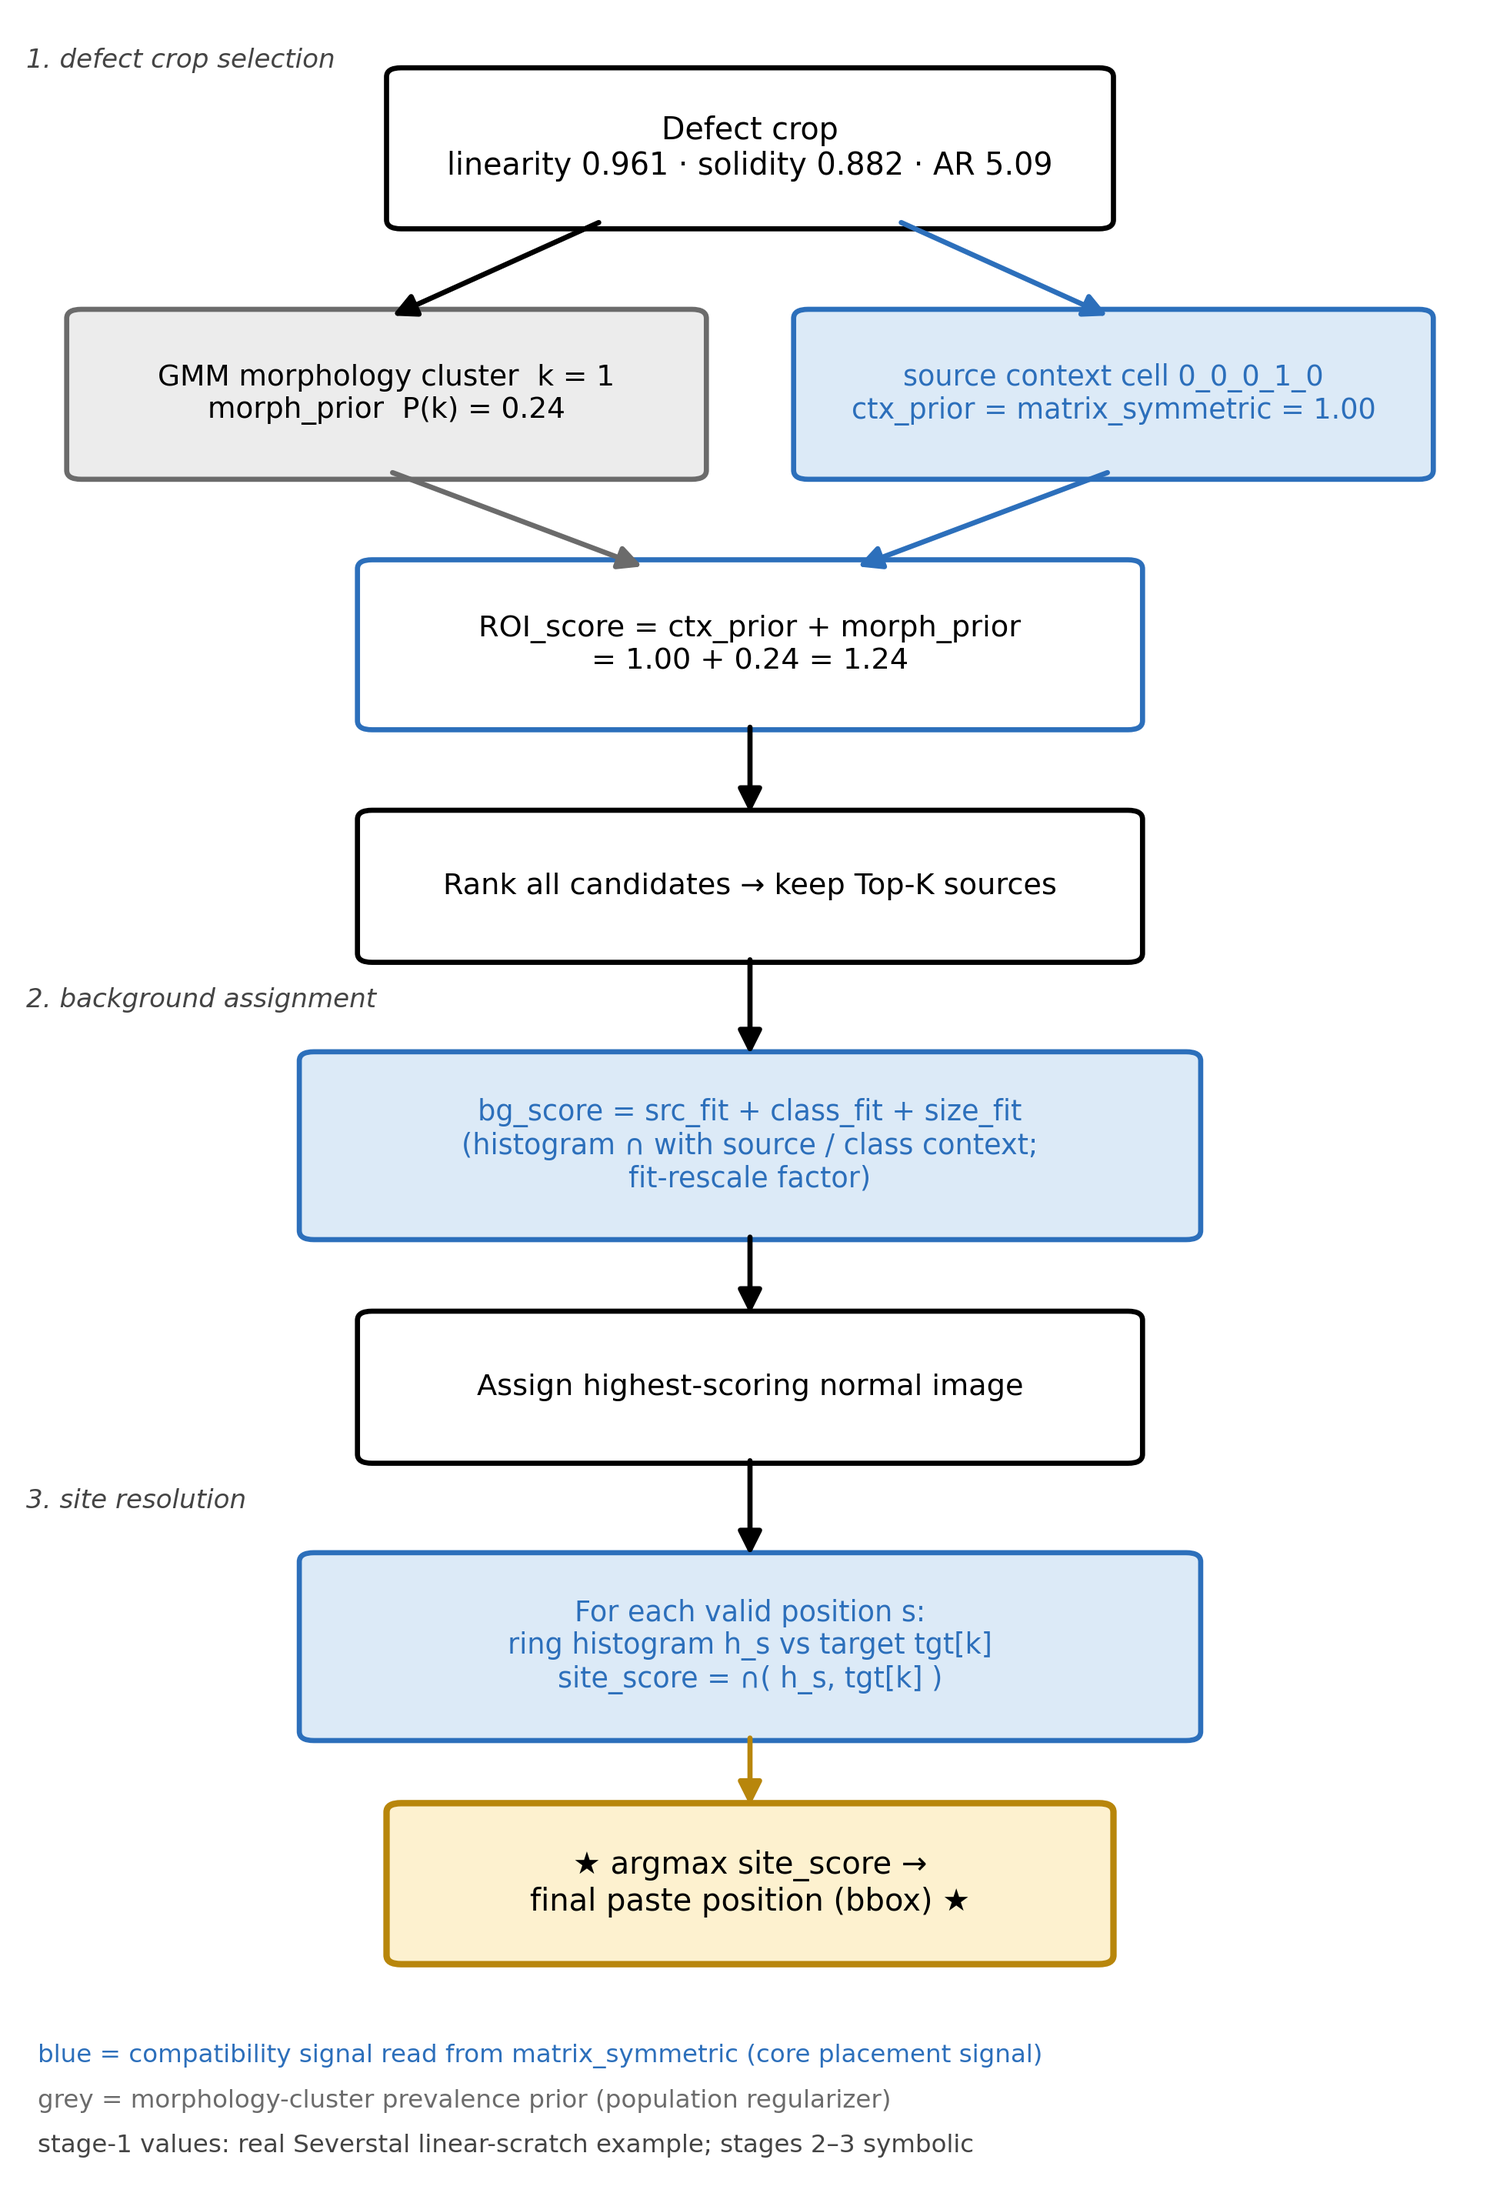
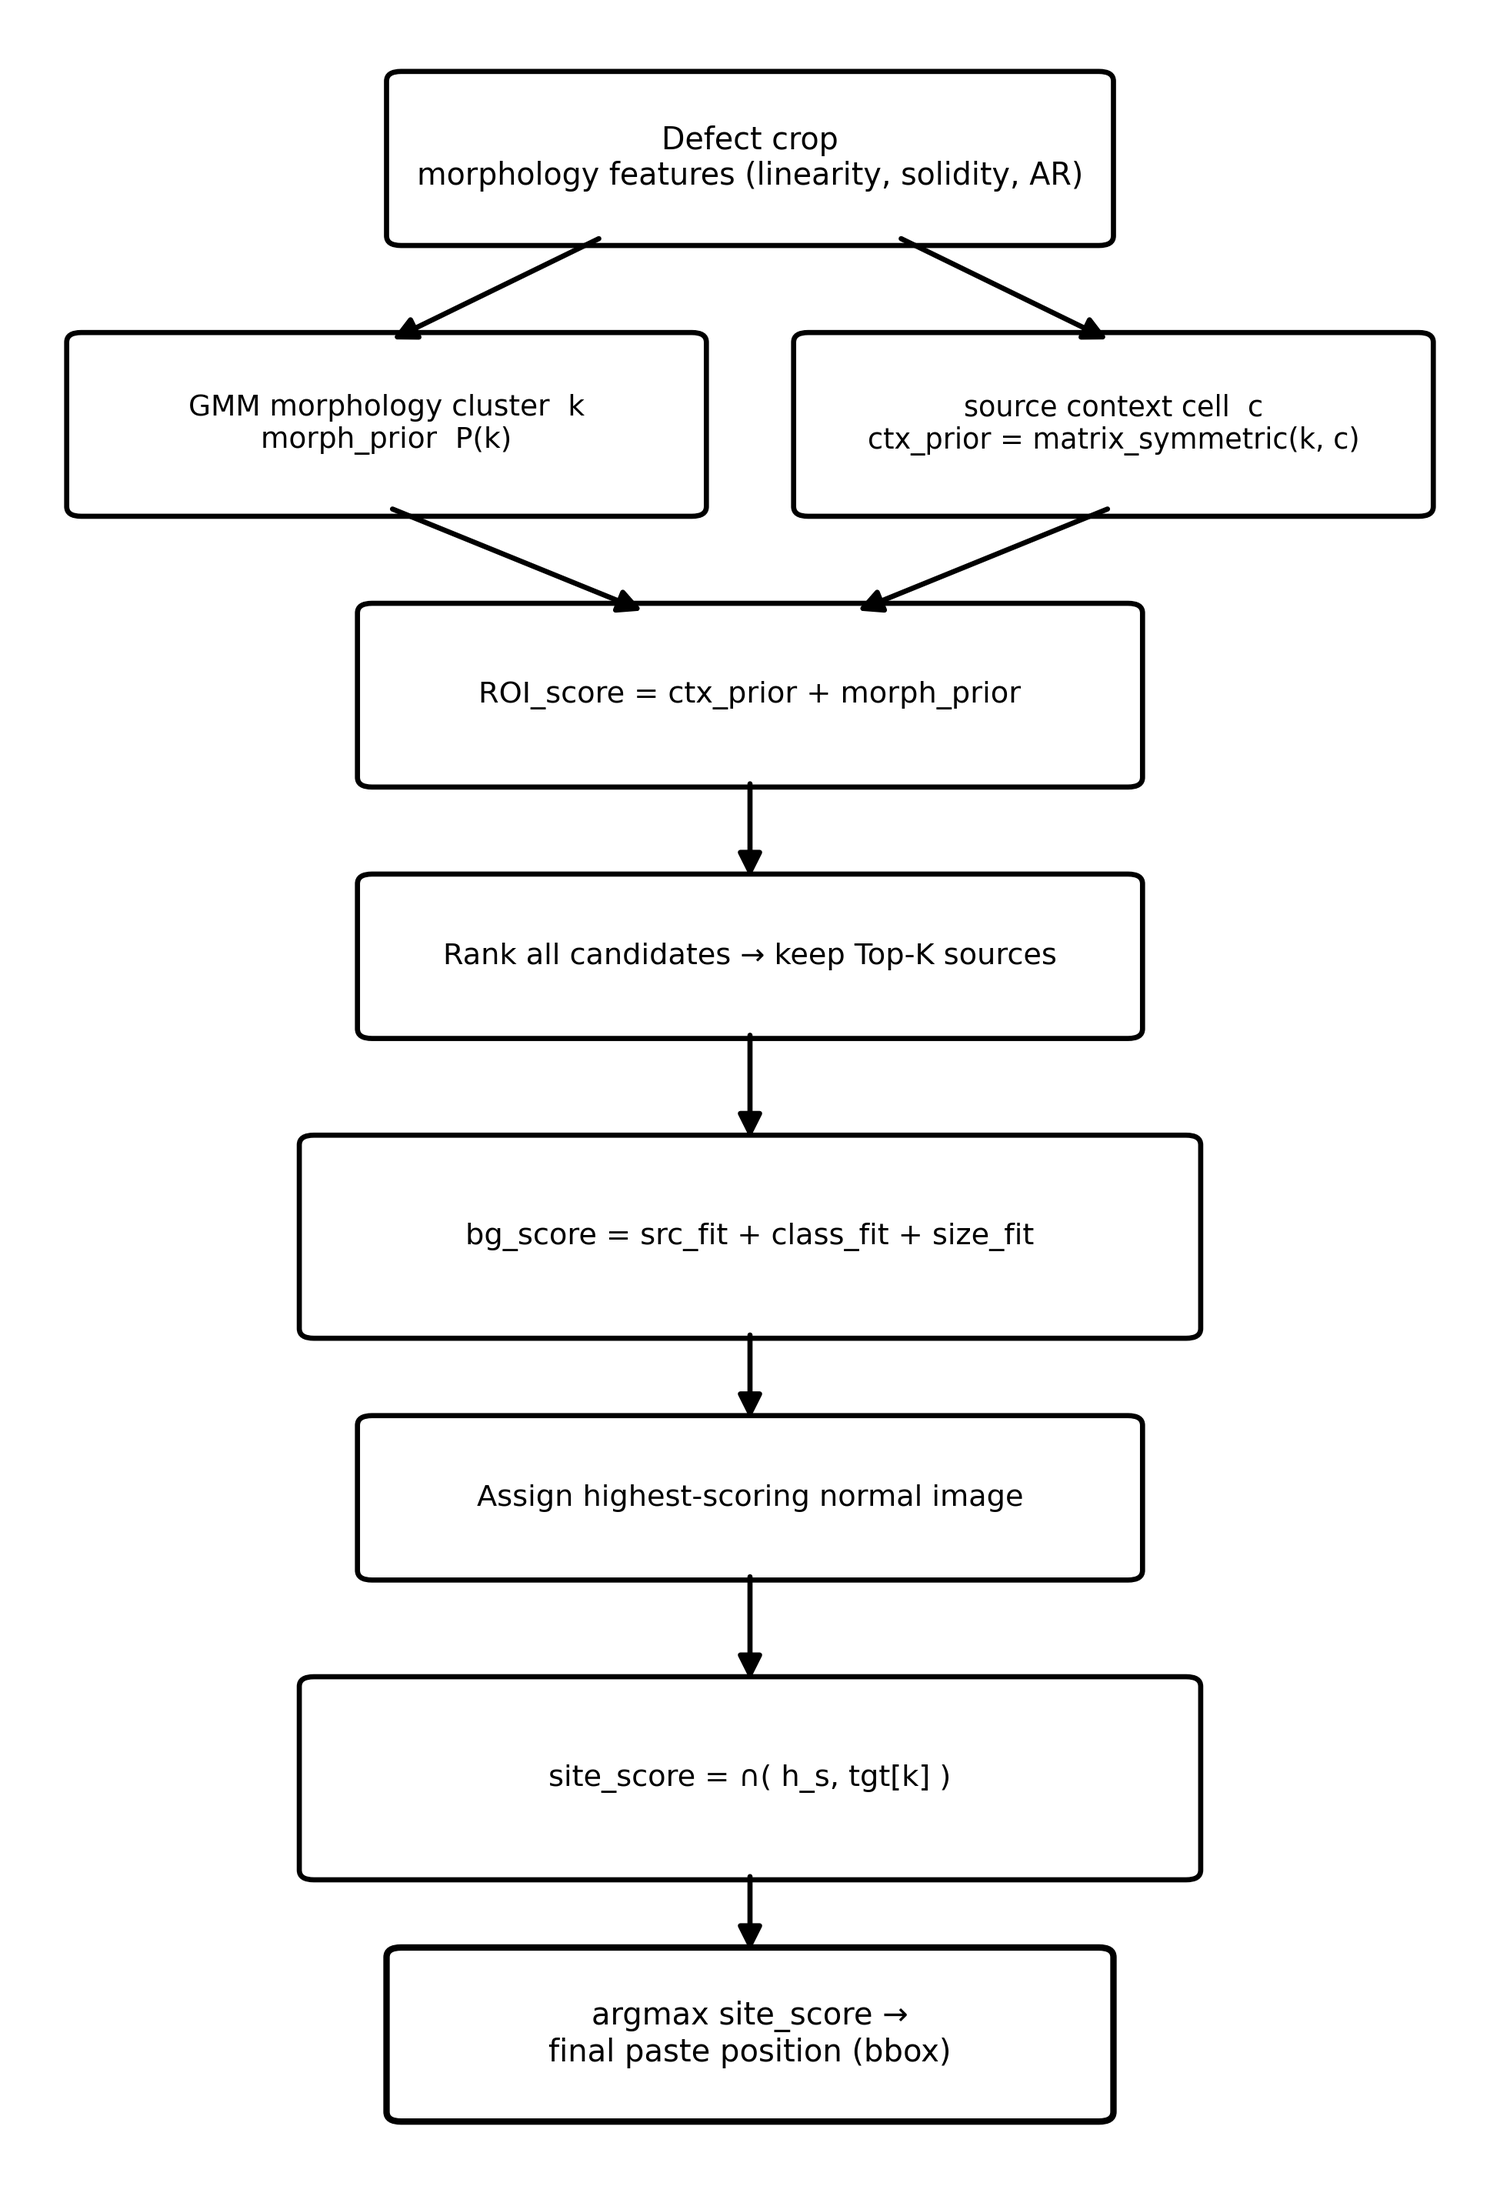
report1차 대응 초안 작성

diff --git a/AROMA연구분석/Article/figure/script/[figure 3.2.4 1] roi_selection_flow.py b/AROMA연구분석/Article/figure/script/[figure 3.2.4 1] roi_selection_flow.py
@@ -5,9 +5,8 @@ Three sequential decisions of §3.2.4 (2026-08-14 simplified body):
   (1) defect crop selection (ROI_score top-K)
   (2) background assignment (three fitness measures)
   (3) site resolution (ring histogram vs target profile).
-Stage-1 numbers are real Severstal linear-scratch profiling values
-(matrix_symmetric["1"] peak cell 0_0_0_1_0 = 1.00, P(k=1) = 0.24);
-stages 2-3 are symbolic. See [figure 3.2.4 1] roi_selection_flow.md.
+All boxes are symbolic (2026-08-22: example values and stage labels
+removed). See [figure 3.2.4 1] roi_selection_flow.md.
 """
 import matplotlib
 matplotlib.use("Agg")
@@ -17,15 +16,15 @@ from matplotlib.patches import FancyBboxPatch, FancyArrowPatch
 OUT = ("D:/project/aroma/AROMA연구분석/Article/figure/image/"
        "[figure 3.2.4 1] roi_selection_flow.png")
 
-BLUE   = "#2c6fbb"   # compatibility signal (core)
-BLUEBG = "#dceaf7"
-GREY   = "#6b6b6b"   # morphology prior
-GREYBG = "#ececec"
-STAR   = "#b8860b"
-STARBG = "#fdf1cf"
+BLUE   = "black"
+BLUEBG = "white"
+GREY   = "black"
+GREYBG = "white"
+STAR   = "black"
+STARBG = "white"
 
 fig, ax = plt.subplots(figsize=(6.6, 9.6))
-ax.set_xlim(0, 10); ax.set_ylim(3.4, 27.4); ax.axis("off")
+ax.set_xlim(0, 10); ax.set_ylim(5.2, 27.4); ax.axis("off")
 
 def box(x, y, w, h, text, ec, fc, lw=1.6, fs=9.5, style="round,pad=0.1", ls="-", tc="black"):
     ax.add_patch(FancyBboxPatch((x, y), w, h, boxstyle=style,
@@ -36,28 +35,25 @@ def arrow(x0, y0, x1, y1, color="black", lw=1.6):
     ax.add_patch(FancyArrowPatch((x0, y0), (x1, y1), arrowstyle="-|>",
                  mutation_scale=15, linewidth=lw, color=color))
 
-def stage(y, label):
-    ax.text(0.02, y, label, fontsize=8.2, color="#444444", style="italic")
 
 cx = 5.0
 
 # --- Stage 1: defect crop selection -----------------------------------------
-stage(26.9, "1. defect crop selection")
 box(2.6, 25.2, 4.8, 1.6,
-    "Defect crop\nlinearity 0.961 · solidity 0.882 · AR 5.09",
+    "Defect crop\nmorphology features (linearity, solidity, AR)",
     "black", "white", fs=9.5)
 
 box(0.4, 22.4, 4.2, 1.7,
-    "GMM morphology cluster  k = 1\nmorph_prior  P(k) = 0.24",
+    "GMM morphology cluster  k\nmorph_prior  P(k)",
     GREY, GREYBG, fs=9.0)
 box(5.4, 22.4, 4.2, 1.7,
-    "source context cell 0_0_0_1_0\nctx_prior = matrix_symmetric = 1.00",
-    BLUE, BLUEBG, fs=8.8, tc=BLUE)
+    "source context cell  c\nctx_prior = matrix_symmetric(k, c)",
+    BLUE, BLUEBG, fs=8.8)
 arrow(4.0, 25.2, 2.5, 24.1)                     # defect -> cluster
 arrow(6.0, 25.2, 7.5, 24.1, color=BLUE)         # defect -> context cell
 
 box(2.4, 19.6, 5.2, 1.7,
-    "ROI_score = ctx_prior + morph_prior\n= 1.00 + 0.24 = 1.24",
+    "ROI_score = ctx_prior + morph_prior",
     BLUE, "white", fs=9.2)
 arrow(2.5, 22.4, 4.3, 21.3, color=GREY)
 arrow(7.5, 22.4, 5.7, 21.3, color=BLUE)
@@ -68,10 +64,9 @@ box(2.4, 17.0, 5.2, 1.5,
 arrow(cx, 19.6, cx, 18.5)
 
 # --- Stage 2: background assignment ------------------------------------------
-stage(16.4, "2. background assignment")
 box(2.0, 13.9, 6.0, 1.9,
-    "bg_score = src_fit + class_fit + size_fit\n(histogram ∩ with source / class context;\nfit-rescale factor)",
-    BLUE, BLUEBG, fs=8.8, tc=BLUE)
+    "bg_score = src_fit + class_fit + size_fit",
+    BLUE, BLUEBG, fs=9.2)
 arrow(cx, 17.0, cx, 15.8)
 
 box(2.4, 11.4, 5.2, 1.5,
@@ -80,24 +75,16 @@ box(2.4, 11.4, 5.2, 1.5,
 arrow(cx, 13.9, cx, 12.9)
 
 # --- Stage 3: site resolution -------------------------------------------------
-stage(10.8, "3. site resolution")
 box(2.0, 8.3, 6.0, 1.9,
-    "For each valid position s:\nring histogram h_s vs target tgt[k]\nsite_score = ∩( h_s, tgt[k] )",
-    BLUE, BLUEBG, fs=8.8, tc=BLUE)
+    "site_score = ∩( h_s, tgt[k] )",
+    BLUE, BLUEBG, fs=9.2)
 arrow(cx, 11.4, cx, 10.2)
 
 box(2.6, 5.8, 4.8, 1.6,
-    "★ argmax site_score →\nfinal paste position (bbox) ★",
+    "argmax site_score →\nfinal paste position (bbox)",
     STAR, STARBG, lw=2.0, fs=9.6, tc="black")
 arrow(cx, 8.3, cx, 7.4, color=STAR)
 
-# legend
-ax.text(0.1, 4.6, "blue = compatibility signal read from matrix_symmetric (core placement signal)",
-        fontsize=7.8, color=BLUE)
-ax.text(0.1, 4.1, "grey = morphology-cluster prevalence prior (population regularizer)",
-        fontsize=7.8, color=GREY)
-ax.text(0.1, 3.6, "stage-1 values: real Severstal linear-scratch example; stages 2–3 symbolic",
-        fontsize=7.8, color="#444444")
 
 plt.tight_layout()
 fig.savefig(OUT, dpi=300, bbox_inches="tight")

diff --git a/AROMA연구분석/Article/figure/script/[figure 3.2.4 4] bg_score_composition.py b/AROMA연구분석/Article/figure/script/[figure 3.2.4 4] bg_score_composition.py
@@ -154,8 +154,7 @@ def show(ax, im, title, sub, border=None, color="black", overlay=None, vmax=None
                   extent=(0, gw * 64, gh * 64, 0))
         ax.set_xlim(0, arr.shape[1]); ax.set_ylim(arr.shape[0], 0)
     ax.set_xticks([]); ax.set_yticks([])
-    ax.set_title(title, fontsize=8.8, pad=3, color=color)
-    ax.set_xlabel(sub, fontsize=7.6, color=color)
+    ax.set_title(title, fontsize=12, pad=4, color=color)
     for sp in ax.spines.values():
         sp.set_linewidth(2.2 if border else 0.6)
         sp.set_edgecolor(border or "#666666")
@@ -214,11 +213,6 @@ for ds in DATASETS:
             show(axes[rix, cix], bg, title + star, sub,
                  border=color, color=color, overlay=olay, vmax=vmx)
 
-    fig.text(0.01, 0.004,
-             "tiles tinted by that cell's mass in the row's reference histogram "
-             "(row 1: p_src, row 2: p_cls; brighter = heavier); untinted tiles = void, "
-             "unobserved, or defect-overlapping; final row shown untinted",
-             fontsize=7.6, color="#444444")
     out = os.path.join(OUT_DIR, "[figure 3.2.4 4 %s] bg_score_composition.png" % ds)
     fig.savefig(out, dpi=300, bbox_inches="tight")
     plt.close(fig)

diff --git a/.claude/.dev_note/aroma_report1_responses_20260821.md b/.claude/.dev_note/aroma_report1_responses_20260821.md
@@ -2,6 +2,14 @@
 
 ## (성격: 세션 기록 · **완료분 + 잔여 작업 목록**. 답변서는 완성, 실험 E4·figure·재정렬은 미착수)
 
+> **🟢 후속 반영 (2026-08-22 세션) — B안 기준 원고·figure·정합 마무리**
+> - **Figure 3.2.4-1 재생성 완료** (`roi_selection_flow.py`): ① 무가중 수식 반영 → ② 흑백 단일화(색 구분·범례 3줄·★ 제거) → ③ bg_score 괄호 설명·site 블럭 서술 제거(수식만) → ④ 박스 예시값(0.961 등)·좌상단 스테이지 라벨 제거 — **전 박스 기호(symbolic) 전용**. 스펙 md 동기화, `_mod` 쌍도 수식만 동기화(구식·재생성 안 함).
+> - **Figure 3.2 (aroma_pipeline) 재생성 완료**: §3.2.6 삭제 반영, Quality Gate 스테이지 박스 제거(6→5). pipeline_spec.md 스테이지 표·캡션 초안 갱신(무가중 수식 포함). §3.2 도입부 "and quality control" 문구 삭제.
+> - **Figure 3.2.4-4 스크립트 수정 완료·재생성 블로커**: 샘플 하단 라벨 제거, 상단 라벨 12pt, 최하단 각주 제거. 단 **재생성 불가** — 로컬 미러(`D:/project/AROMA_DATASET`) 레이아웃이 스크립트 기대(`profiling/profiling/<ds>`, `<ds>/train/good`)와 불일치: 실제는 `profiling/profiling_<ds>`(leather는 `profilng_leather` 오타), severstal·kolektor 원본 이미지 디렉터리 부재. 데이터 복원 또는 Colab 재생성 필요(사용자 결정 대기).
+> - **§5 재작성(초본 최소수정 방침)**: `section5 asis.txt`(초본) 문장 보존 + 사실 정정만 — 수치 갱신(+2.84/+1.32/+0.41/+0.29/−0.11, Kolektor baseline 0.950), leather "역전(−4.91)" 서술을 "동등 이득(≈+9pp)·격차 무"로 교체, ref [44–46]. 답변서 약속분 3건만 유지: n=3 유의성 절, CCI 가설 강등 문장(+future-work 절), 생성형 범위 밖+ControlNet [24] 결합 후속(별도 문단 대신 FID 문단에 2문장 축약).
+> - **답변서↔원고 전수 대조 검증 완료**: 불일치 2건 발견·본문 수정 — ① §5 "larger roster as future work" 절 복원(R1-2(3) 약속분, §5 축약 때 탈락), ② **§3.2.3 homogeneity safeguard 정의 신설**(Table 4b 각주가 "described above"로 인용하나 정의 부재였음 — middle tertile < 15%·std → fixed default 문장 추가; §4.5·R3-1(1)이 전제하는 정의). 나머지(Eq.2, §4.4 Table 11 수치·below-Random 주장, §4.5 Table 12, Tables 13–14, Table 2/4b/5b, §4.1 Δ/p, Abstract 수치·neutrality, §2 인용들, MTD Crack/Uneven) 전부 정합 확인.
+> - 인용 스타일: Introduction만 `[4, 5]` 공백 스타일 유지(원본 스타일), 타 섹션은 `[1,2]` 무공백 — 전면 통일 여부는 조판 시 결정.
+>
 > **🔴 최종 번복 B안 (2026-08-21 후속 세션) — 아래 A안을 대체. Eq.2 = 무가중 합, §4.5 sweep 제거**
 > R2-1·R3-3 공통 지적(0.6/0.4 hand-set constants)에 대해 **가중치 자체를 제거**하는 것으로 최종 결정:
 > - **Eq.2 = `ROI_score = ctx_prior + morph_prior` (상수항 없음)**. 논리: §3.2.4 3단계 재편으로 compat model이 선택·배경할당·위치해상 모두에서 직접 소비되므로 선택 점수 내 priority weighting 불필요. §3.2.4 정당화 문단 재작성(항 필요성은 §4.4 ablation 인용).
@@ -9,7 +17,7 @@
 > - **E4 완료 및 반영**: YOLO11n 3-seed 결과(`.claude/.etc/exp4v2/20260821/yolo11/exp4v2_results_{1,2,42}.json`, casda arm은 오수행으로 제외) → §4.3 말미 "Cross-architecture validation (YOLO11n)" 소절 신설. **Table 13**(Severstal, Table 8 형식 per-class) + **Table 14**(AITeX, Table 6 형식 mAP@0.5 단일 열). Severstal AROMA 3-seed 전승(+1.48pp, c2/c4 집중), AITeX comparable(+0.97pp, seed 분산 이내). R2-2 placeholder 실수치로 채움.
 > - 답변서 3건 모두 동기화: R1-1(2) "가중치 제거+tertile 민감도", R2-1(2)·R3-3(1,2) "removed rather than defended", R3-1(2) 인용 수치를 §4.5 실제 수치(3.1–14.5% relabel)로 정정.
 > - **잔존 리스크 갱신**: 논문 무가중 vs production 코드 0.5/0.3/0.2 불일치는 여전(형태는 다르나 동일 지뢰). sweep 실측("값 비민감·항 참여 민감")이 완화 근거로 유효.
-> - **잔여**: figure `[figure 3.2.4 1] roi_selection_flow*.py`(0.6/0.4 하드코딩) 수정·재생성, `[figure 4.5 1] weight_simplex*` retired 처리, section3_2_4_eng/kor.md 초안·AROMA.txt 조립본 미반영, SOP "0.6/0.4 유지 결정" 기록 갱신.
+> - **잔여**: ~~figure `[figure 3.2.4 1] roi_selection_flow*.py` 수정·재생성~~(22일 완료, 위 🟢 참조), `[figure 4.5 1] weight_simplex*` retired 처리, figure 3.2.4-4 재생성(데이터 블로커), section3_2_4_eng/kor.md 초안·AROMA.txt 조립본 미반영, SOP "0.6/0.4 유지 결정" 기록 갱신.
 >
 > **⚠ (구) 최종 결정 A안 (2026-08-21 세션 말미, 위 B안으로 대체됨) — Eq.2는 2-항 표기 유지**: 세션 중 Eq.2를 3-성분(0.5/0.3/0.2)으로 전환했다가 **최종적으로 제출본 2-항(0.6·ctx + 0.4·morph) 표기로 회귀** (사용자 결정: 수식 단순화 취지 유지, 수식 변경 가시성 리스크 회피). 이에 따라:
 > - §3.2.4 Eq.2 = 0.6/0.4 + fixed-design·priority-order(context>morphology) 이론 근거 (quality 서술 제거)

diff --git a/AROMA연구분석/Article/figure/script/[figure 3.2.4 1] roi_selection_flow.md b/AROMA연구분석/Article/figure/script/[figure 3.2.4 1] roi_selection_flow.md
@@ -11,31 +11,26 @@
 기호(ROI_score, bg_score, h_s, tgt[k])만 사용하고 본문에 없는 요소(τ, lift 가중, subtype warp)는
 그리지 않는다.
 
-## 데이터 출처 (stage 1 실측값)
+## 데이터 출처
 
-- `aroma_dataset/profiling/profiling/severstal/`
-  - morphology_features: `class1_00ac8372f` → linearity 0.961 / solidity 0.882 / AR 5.09
-  - morphology_clusters: cluster k=1, morph_prior P(k) = 0.24 (859/3620)
-  - compatibility_matrix.json: `matrix_symmetric["1"]` peak cell `0_0_0_1_0` = 1.00
-  - ROI_score = 1.00 + 0.24 = 1.24 (무가중 합 — 2026-08-21 Eq.2 상수항 제거 반영)
-- stage 2–3은 기호만 (특정 표본 수치 미표기 — 세대 혼입 방지)
+- 없음 — **전 박스 기호(symbolic)만 표기** (2026-08-22 개정: stage-1 Severstal 실측 예시값 제거).
+  구판의 실측값 출처(참고): `aroma_dataset/profiling/profiling/severstal/` — linearity 0.961 /
+  solidity 0.882 / AR 5.09, k=1, P(k)=0.24, peak cell `0_0_0_1_0`=1.00.
 
-## 구성 (세로, 스테이지 라벨 이탤릭)
+## 구성 (세로 흐름도, 기호만)
 
 ```
-1. defect crop selection
-   Defect crop (lin/sol/AR) ─┬→ [회색] GMM cluster k=1, P(k)=0.24
-                             └→ [파랑] source context cell, ctx_prior=1.00
-   → ROI_score = ctx + morph = 1.24
-   → Rank all → keep Top-K sources
-2. background assignment
-   [파랑] bg_score = src_fit + class_fit + size_fit → Assign highest-scoring normal image
-3. site resolution
-   [파랑] for each valid position s: site_score = ∩(h_s, tgt[k])
-   → [금색★] argmax → final paste position (bbox)
+Defect crop (morphology features) ─┬→ GMM cluster k, morph_prior P(k)
+                                   └→ source context cell c, ctx_prior = matrix_symmetric(k, c)
+→ ROI_score = ctx_prior + morph_prior
+→ Rank all → keep Top-K sources
+→ bg_score = src_fit + class_fit + size_fit → Assign highest-scoring normal image
+→ site_score = ∩(h_s, tgt[k])
+→ argmax → final paste position (bbox)
 ```
 
-색: 파랑 = matrix_symmetric에서 읽는 호환성 신호(핵심), 회색 = 형태 prior, 금색 = 최종 출력.
+스타일(2026-08-21~22 개정): **흑백 단일** — 색 구분·범례(blue/grey/stage-1 설명 3줄)·★ 글리프 제거,
+좌상단 스테이지 라벨(1./2./3. 이탤릭) 제거, 박스별 예시 수치 제거(기호 전용).
 
 ## 본문 정합 계약
 
